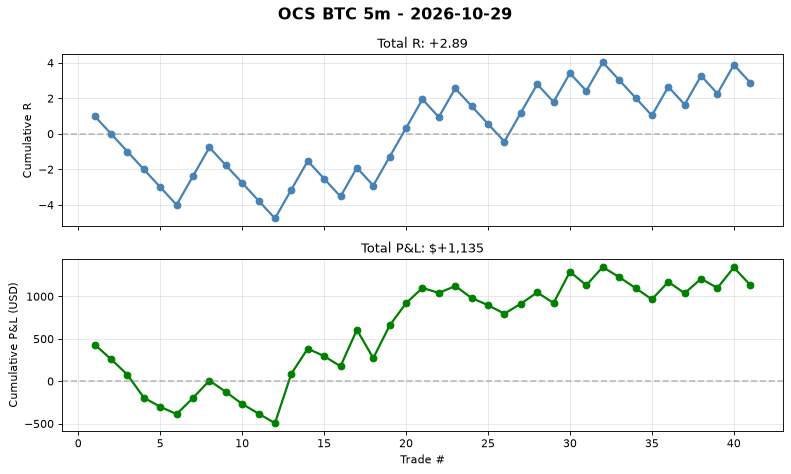
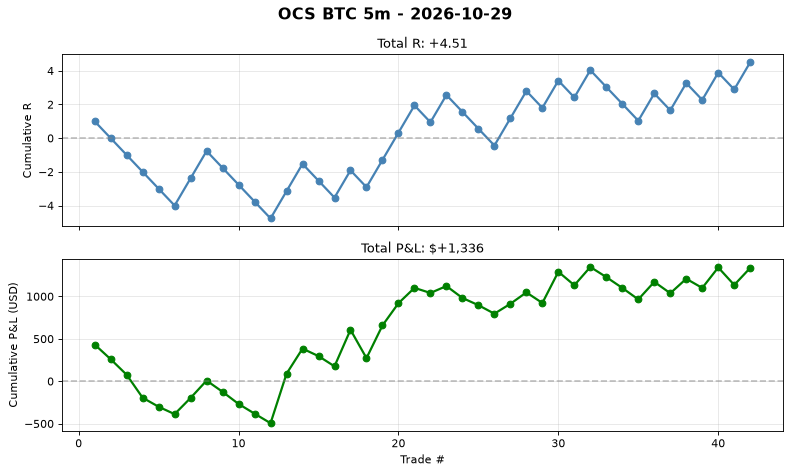
auto(ocs-btc): signal log 2026-10-29T00:58 trades=42

diff --git a/automation/reports/ocs_btc_5m/daily/2026-10-29.md b/automation/reports/ocs_btc_5m/daily/2026-10-29.md
@@ -1,5 +1,37 @@
 # OCS BTC 5m - 2026-10-29
 
-**No trades today.**
+## Summary
+- **Trades**: 1 (1W / 0L)
+- **Win Rate**: 100.0%
+- **Total R**: +1.62R
+- **Total P&L**: $+201
+- **Avg R**: +1.62R
+- **Profit Factor**: 1.19
 
-Cumulative stats: 41 trades | WR 41.5% | avg R 0.07
+## Exit Breakdown
+- T1 (+1.0R): 1
+- T2 (+1.618R): 17
+- T3 (+2.618R): 0
+- T4 (+3.618R): 0
+- T5 (+5.0R): 0
+- SL (-1.0R): 24
+
+## Best Trade
+- **SHORT** at 81,211 -> T2 81,010
+- R = +1.62, P&L = $+201
+- Held for 12 bars
+
+## Worst Trade
+- **SHORT** at 81,211 -> T2 81,010
+- R = +1.62, P&L = $+201
+- Held for 12 bars
+
+## Cumulative Stats (Lifetime)
+- Total trades: 42
+- WR: 42.9%
+- Avg R: 0.107
+- Total R: +4.51R
+- Profit Factor: 1.19
+
+## Chart
+See `daily/2026-10-29.png` for cumulative P&L curve.
